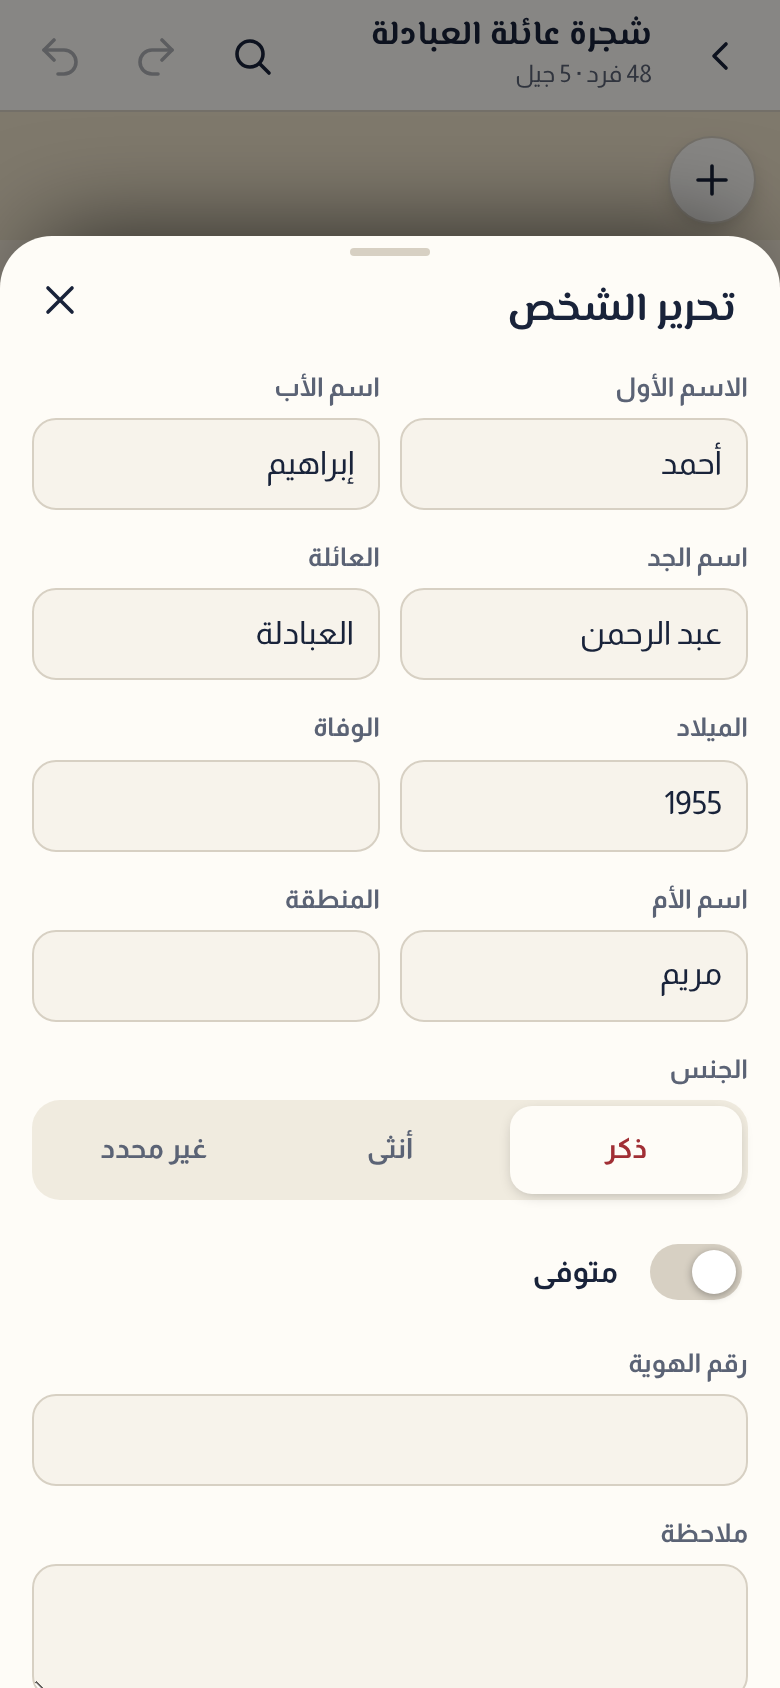
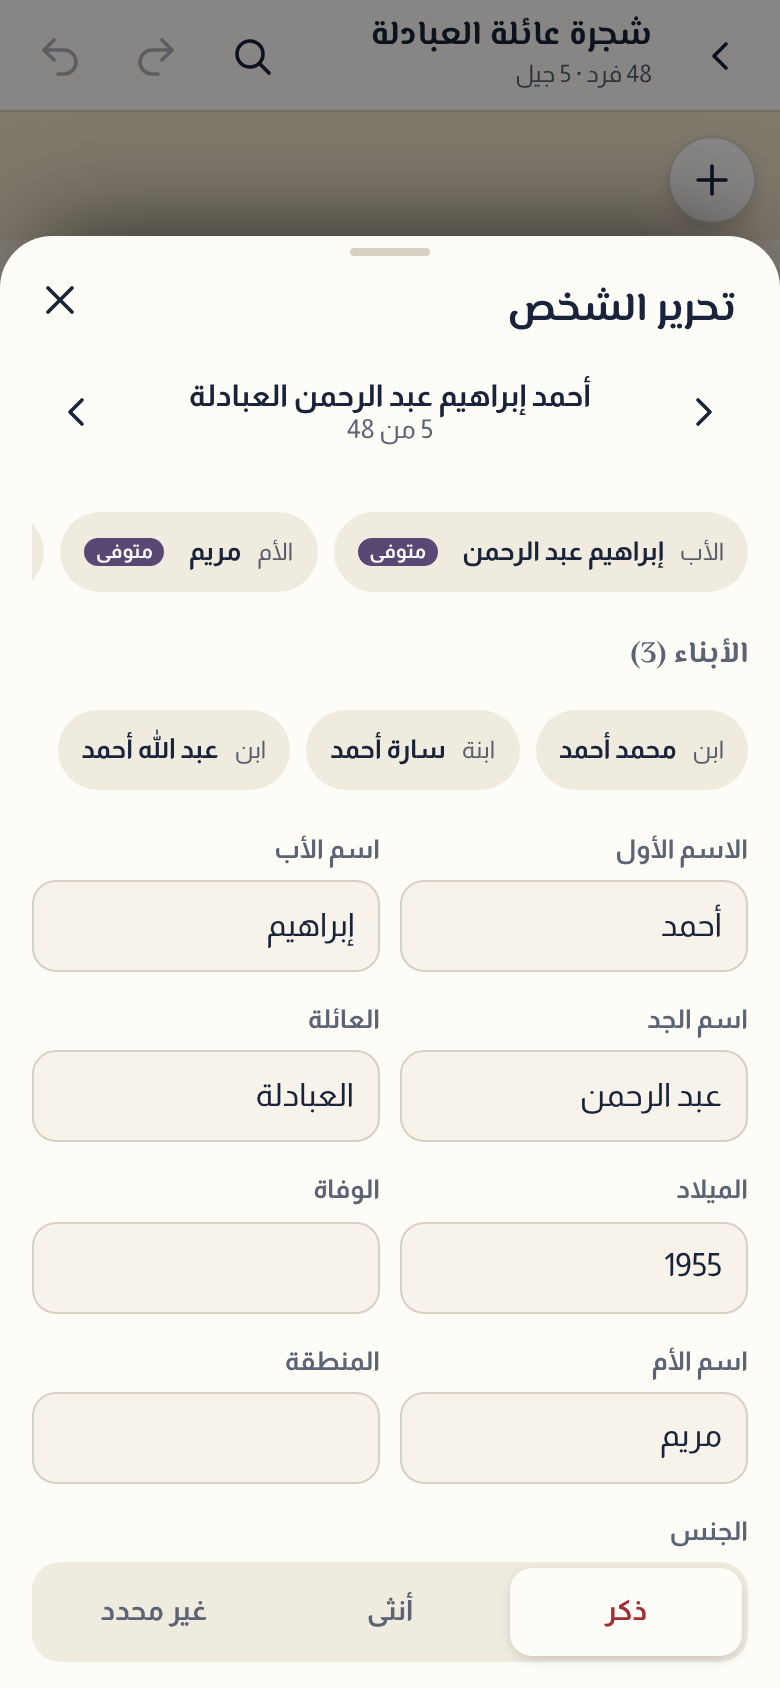
docs: README for v1.2.0 — large trees, deceased tag, relatives navigation
Claude-Session: https://claude.ai/code/session_017sMzU5XjsdNMuE1XVLLkbb

diff --git a/README.md b/README.md
@@ -4,7 +4,7 @@
   <img src="docs/images/banner.png" alt="مُشَجِّر — شجرة عائلة العبادلة" width="100%">
 </p>
 
-<p align="center"><img src="docs/images/badges.png" alt="الإصدار 1.1.0 · يعمل دون إنترنت · البيانات على جهازك · 45/45 اختباراً · Android" height="46"></p>
+<p align="center"><img src="docs/images/badges.png" alt="الإصدار 1.2.0 · يعمل دون إنترنت · البيانات على جهازك · 56/56 اختباراً · Android" height="46"></p>
 
 <h3 align="center">ارسم شجرة عائلتك، رتّبها، وأخرجها بأبهى صورة.<br>يعمل دون إنترنت · سريع وخفيف على الجوال.</h3>
 
@@ -50,12 +50,17 @@
 <tr>
 <td align="center"><img src="assets/icons/feature/gesture.svg" width="72" alt=""><br><b>لمس طبيعي</b><br><sub>سحب وقرص وتقريب ونقرة مزدوجة للتحرير</sub></td>
 <td align="center"><img src="assets/icons/feature/database.svg" width="72" alt=""><br><b>حفظ تلقائي</b><br><sub>عملك محفوظ على جهازك أولاً بأول</sub></td>
-<td align="center"><img src="assets/icons/feature/radial.svg" width="72" alt=""><br><b>يتّسع لعائلات ضخمة</b><br><sub>حتى 20,000 فرد، مع طيّ ذكي للفروع الكبيرة</sub></td>
+<td align="center"><img src="assets/icons/feature/radial.svg" width="72" alt=""><br><b>يتّسع لعائلات ضخمة</b><br><sub>انسيابية كاملة مع 4,000 فرد وأكثر، حتى 20,000 فرد</sub></td>
 </tr>
 <tr>
 <td align="center"><img src="assets/icons/feature/shield.svg" width="72" alt=""><br><b>خصوصية كاملة</b><br><sub>بياناتك لا تغادر جهازك أبداً</sub></td>
-<td align="center"><img src="assets/icons/feature/tests.svg" width="72" alt=""><br><b>45 اختباراً ذاتياً</b><br><sub>تضمن سلامة التخطيط والتصدير والاستيراد</sub></td>
+<td align="center"><img src="assets/icons/feature/tests.svg" width="72" alt=""><br><b>56 اختباراً ذاتياً</b><br><sub>تضمن سلامة التخطيط والتصدير والاستيراد</sub></td>
 <td align="center"><img src="assets/icons/feature/mobile.svg" width="72" alt=""><br><b>مصمَّم للجوال أولاً</b><br><sub>واجهة بأوراق سفلية وإيماءات وأزرار بحجم مريح</sub></td>
+</tr>
+<tr>
+<td align="center"><img src="assets/icons/feature/tag.svg" width="72" alt=""><br><b>علامة «متوفى» ملوّنة</b><br><sub>كبسولة بلون مميّز على بطاقة كل متوفى، تظهر في الصور المصدَّرة أيضاً</sub></td>
+<td align="center"><img src="assets/icons/feature/family.svg" width="72" alt=""><br><b>تنقّل سريع بين الأقارب</b><br><sub>الأب والزوج والأبناء والإخوة بنقرة، وتحرير شخص بعد آخر دون إغلاق الورقة</sub></td>
+<td align="center"><img src="assets/icons/feature/map.svg" width="72" alt=""><br><b>خريطة مصغّرة</b><br><sub>للأشجار الكبيرة: انقر موضعاً لتقفز إليه فوراً</sub></td>
 </tr>
 </table>
 
@@ -63,7 +68,7 @@
 
 ## معرض اللقطات
 
-> كل الصور أدناه **لقطات حيّة من التطبيق نفسه** وهو يعمل على شجرة عائلة العبادلة.
+> كل الصور أدناه **لقطات حيّة من التطبيق نفسه** وهو يعمل على شجرة عائلة العبادلة (والشجرة الكبيرة بيانات تجريبية وهمية).
 
 <table>
 <tr>
@@ -80,6 +85,11 @@
 <td align="center"><img src="docs/images/09-midnight-theme.png" alt="سمة الليل"><br><b>سمة الليل</b><br><sub>نفس الشجرة بهوية داكنة</sub></td>
 <td align="center"><img src="docs/images/10-stats.png" alt="إحصاءات الشجرة"><br><b>إحصاءات الشجرة</b><br><sub>الأجيال وأكبر الفروع والأسماء الأكثر تكراراً</sub></td>
 <td align="center"><img src="docs/images/11-export-sheet.png" alt="التصدير"><br><b>التصدير</b><br><sub>ثماني صيغ من نموذج واحد</sub></td>
+</tr>
+<tr>
+<td align="center"><img src="docs/images/14-deceased-tag.png" alt="علامة متوفى"><br><b>علامة «متوفى»</b><br><sub>كبسولة بنفسجية على الحافة السفلية لبطاقة المتوفى، بلا تغيير في حجم البطاقة</sub></td>
+<td align="center"><img src="docs/images/15-relatives-nav.png" alt="التنقل بين الأقارب"><br><b>التنقل بين الأقارب</b><br><sub>الأب والأم والزوج والأبناء بنقرة، وأسهم التالي/السابق للمرور على الجميع</sub></td>
+<td align="center"><img src="docs/images/16-large-tree.png" alt="شجرة كبيرة"><br><b>شجرة من 4,000 فرد</b><br><sub>خريطة مصغّرة أعلى اليمين للقفز بين الفروع، والحركة انسيابية</sub></td>
 </tr>
 <tr>
 <td align="center"><img src="docs/images/01-home.png" alt="الشاشة الرئيسية"><br><b>الشاشة الرئيسية</b><br><sub>خلفية حيّة وأيقونة «م»</sub></td>
@@ -171,10 +181,19 @@
 
 ## الأداء والجودة
 
-45 اختباراً ذاتياً تغطي التخطيط والتصدير والاستيراد والأمان، وكلها ناجحة. قياسات على شجرة من **3,000 فرد**:
+56 اختباراً ذاتياً تغطي التخطيط والتصدير والاستيراد والأمان والأداء، وكلها ناجحة. المخطط يرسم **ما تراه فقط** وبمستوى تفصيل يتبع التقريب، فتبقى الحركة انسيابية مهما كبرت العائلة. قياسات على شجرة من **4,000 فرد** (8 أجيال) مع معالج أبطأ بأربعة أضعاف لمحاكاة جوال متوسط:
 
-| المرحلة | الزمن |
+| العملية | الزمن |
 |---|---|
+| فتح ملف الـ4,000 فرد حتى ظهور المخطط | ≈ 1 ثانية |
+| السحب والتقريب والتبعيد | 60 إطاراً/ثانية دون تقطّع |
+| تعديل بطاقة وظهورها | ≈ 0.04 ثانية (≈ 0.25 مع معالج أبطأ 4×) |
+| التراجع عن تعديل | ≈ 0.04 ثانية |
+| الذاكرة المستخدمة | ≈ 15–20 ميغابايت |
+
+وتبقى الحركة سلسة حتى عند 12,000 فرد. خطوات التراجع تحفظ الأشخاص المتغيّرين فقط، والحفظ التلقائي يعمل في وقت الفراغ فلا يقطع التحرير.
+
+---|---|
 | قراءة الشجرة وتحليلها | ≈ 8 ms |
 | التخطيط العمودي | ≈ 60 ms |
 | توليد الرسم المتجهي (SVG) | ≈ 50–80 ms |
@@ -186,6 +205,7 @@
 
 | الإصدار | الجديد |
 |---|---|
+| **1.2.0** | **أداء** انسيابية كاملة مع 4,000 فرد وأكثر (رسم المنطقة المرئية فقط ومستويات تفصيل) · علامة «متوفى» بلون مميّز على البطاقة · تنقّل سريع بين الأقارب وأسهم لوحة المفاتيح · خريطة مصغّرة للأشجار الكبيرة · اسم العائلة الظاهر في القائمة قابل للتعديل · تخطيط أفقي تلقائي للشجرة الكبيرة |
 | **1.1.0** | **إصلاح** عدم استجابة أزرار التقريب والتبعيد والاحتواء للنقر · تحسين العمل دون إنترنت · هوية أيقونات وشعار جديدة |
 | **1.0.0** | الإصدار الأول: ثلاثة تخطيطات، ثلاث سمات، ثماني صيغ تصدير، تراجع/إعادة، حفظ تلقائي، 45 اختباراً |
 
